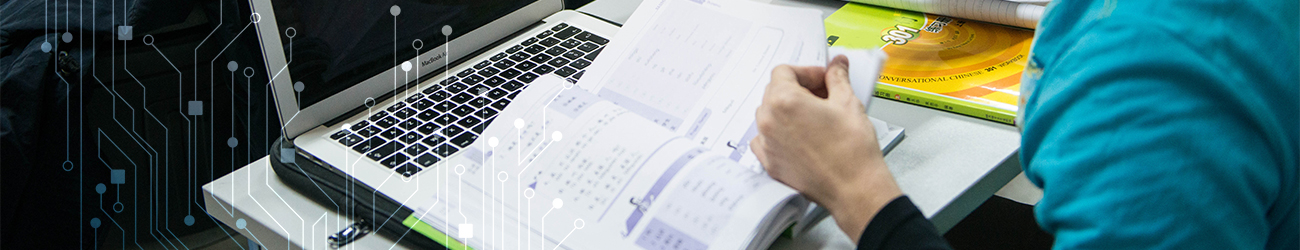
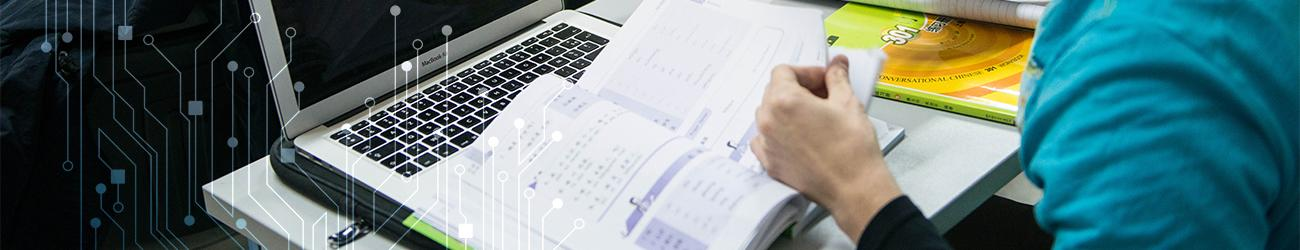
更新轮播栏

diff --git a/testapp/app1/templates/base.html b/testapp/app1/templates/base.html
@@ -1,5 +1,6 @@
 <!DOCTYPE html>
 <html lang="zh-cn">
+{% load staticfiles %}
 <head>
     <meta charset="UTF-8">
 
@@ -56,7 +57,7 @@
 				</ol>
 				<div class="carousel-inner">
 					<div class="carousel-item">
-						<img class="d-block w-100" alt="Carousel Bootstrap First" src="https://www.layoutit.com/img/sports-q-c-1600-500-1.jpg" />
+						<img class="d-block w-100 h-50" alt="Carousel Bootstrap First" src="https://www.layoutit.com/img/sports-q-c-1600-500-1.jpg" />
 						<div class="carousel-caption">
 							<h4>
                                 创新
@@ -67,7 +68,7 @@
 						</div>
 					</div>
 					<div class="carousel-item">
-						<img class="d-block w-100" alt="Carousel Bootstrap Second" src="static/img/carousel/lmzs.kxyj.jpg" />
+						<img class="d-block w-100 " alt="Carousel Bootstrap Second" src="{% static 'img/carousel/top2.jpg' %}">
 						<div class="carousel-caption">
 							<h4>
 								创造
@@ -78,7 +79,7 @@
 						</div>
 					</div>
 					<div class="carousel-item active">
-						<img class="d-block w-100" alt="Carousel Bootstrap Third" src="https://www.layoutit.com/img/sports-q-c-1600-500-3.jpg" />
+						<img class="d-block w-100 " alt="Carousel Bootstrap Third" src="https://www.layoutit.com/img/sports-q-c-1600-500-3.jpg" />
 						<div class="carousel-caption">
 							<h4>
 								创意

diff --git a/testapp/app1/static/img/carousel/pic_processor.py b/testapp/app1/static/img/carousel/pic_processor.py
@@ -1,0 +1,7 @@
+from PIL import Image
+im = Image.open('default2.jpg')
+im2 = Image.open('top1.jpg')
+print(im.size)
+print(im2.size)
+im2_resize = im2.resize(im.size)
+im2_resize.save('top2.jpg')
